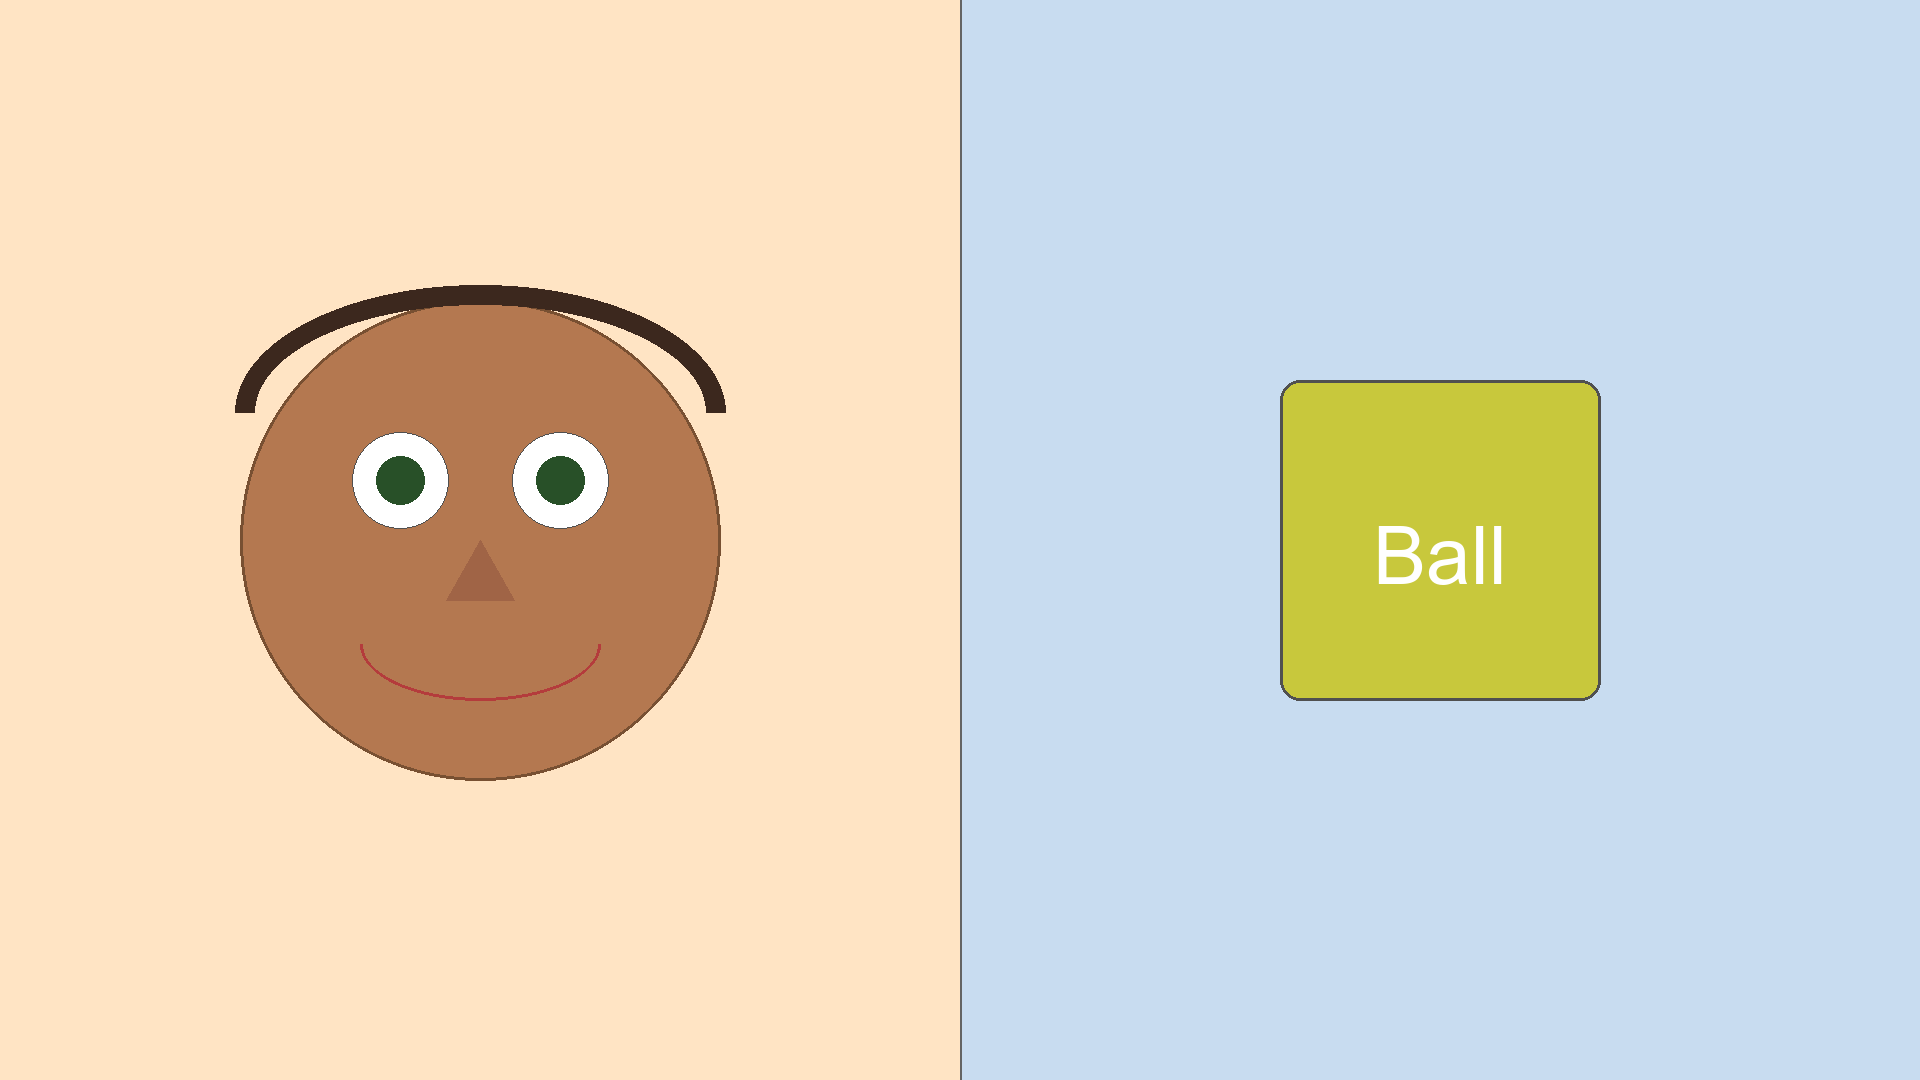
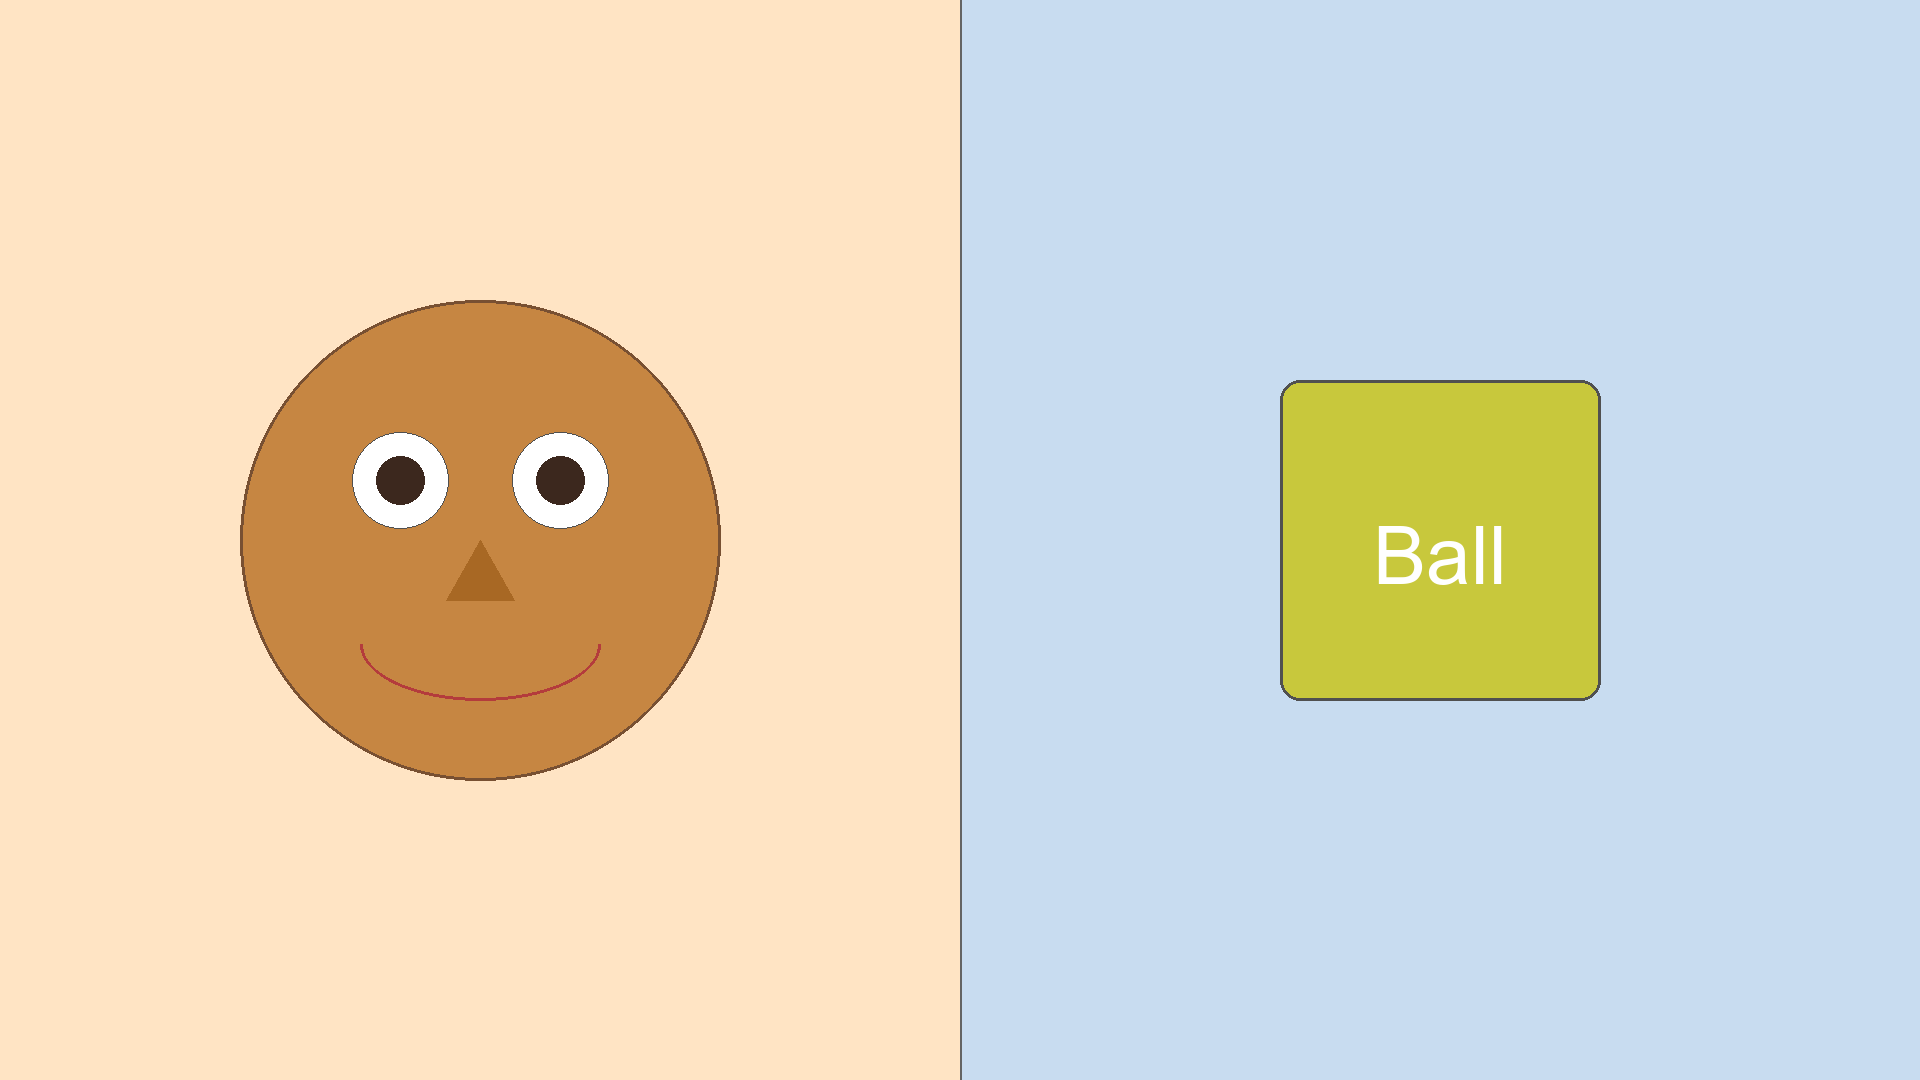
feat: make faces distinct and diverse in stimulus images

diff --git a/stimuli/generate_stimuli.py b/stimuli/generate_stimuli.py
@@ -33,9 +33,20 @@ STIMULI = [
 # Colors for the illustrations
 FACE_BG = (255, 228, 196)      # Warm peach
 OBJECT_BG = (200, 220, 240)    # Cool blue-gray
-FACE_COLOR = (180, 120, 80)    # Skin tone
-HAIR_COLOR = (60, 40, 30)      # Dark brown
-EYE_COLOR = (40, 80, 40)       # Dark green
+
+FACE_STYLES = [
+    # skin, hair, eyes, accessory
+    ((255, 206, 180), (60, 40, 30),  (40, 80, 40),   None),        # 1: Light skin, brown hair, green eyes
+    ((141, 85,  36),  (20, 20, 20),  (40, 30, 20),   None),        # 2: Dark skin, black hair, dark eyes
+    ((241, 194, 125), (220, 180, 50),(80, 120, 180), "glasses"),   # 3: Medium skin, blonde hair, blue eyes + glasses
+    ((255, 224, 189), (180, 60, 40), (80, 160, 80),  None),        # 4: Light skin, red hair, light green eyes
+    ((198, 134, 66),  None,          (60, 40, 30),   None),        # 5: Darker skin, bald, brown eyes
+    ((224, 172, 105), (100, 60, 40), (100, 80, 60),  None),        # 6: Medium skin, light brown hair, hazel eyes
+    ((255, 218, 185), (40, 40, 40),  (40, 40, 40),   None),        # 7: Light skin, black hair, black eyes
+    ((100, 50,  20),  (30, 30, 30),  (20, 20, 20),   None),        # 8: Very dark skin, black hair, black eyes
+    ((255, 220, 177), (180, 180, 180),(60, 100, 140), "glasses"),  # 9: Light skin, gray hair, blue eyes + glasses
+    ((230, 185, 120), (80, 40, 120), (120, 60, 120), None),        # 10: Medium skin, purple hair, purple eyes (fun!)
+]
 OBJECT_COLORS = [
     (180, 80,  80),   # House – red
     (80,  80,  180),  # Car – blue
@@ -50,15 +61,23 @@ OBJECT_COLORS = [
 ]
 
 
-def draw_face(draw, cx, cy, size):
-    """Draw a simple illustrated face."""
+def draw_face(draw, cx, cy, size, index=0):
+    """Draw a simple illustrated face with unique styles."""
     r = size // 2
+    style = FACE_STYLES[index % len(FACE_STYLES)]
+    skin_col, hair_col, eye_col, acc = style
 
     # Head
-    draw.ellipse([cx - r, cy - r, cx + r, cy + r], fill=FACE_COLOR, outline=(120, 80, 50), width=3)
+    draw.ellipse([cx - r, cy - r, cx + r, cy + r], fill=skin_col, outline=(120, 80, 50), width=3)
 
     # Hair
-    draw.arc([cx - r - 5, cy - r - 15, cx + r + 5, cy], 180, 0, fill=HAIR_COLOR, width=20)
+    if hair_col:
+        # Alternate hair styles slightly based on index
+        if index % 2 == 0:
+            draw.arc([cx - r - 5, cy - r - 15, cx + r + 5, cy], 180, 0, fill=hair_col, width=20)
+        else:
+            # Long hair
+            draw.arc([cx - r - 10, cy - r - 10, cx + r + 10, cy + r], 150, 30, fill=hair_col, width=25)
 
     # Eyes
     er = size // 10
@@ -67,16 +86,25 @@ def draw_face(draw, cx, cy, size):
     draw.ellipse([cx + r // 3 - er, ey - er, cx + r // 3 + er, ey + er], fill="white", outline=(80, 80, 80))
     # Pupils
     pr = er // 2
-    draw.ellipse([cx - r // 3 - pr, ey - pr, cx - r // 3 + pr, ey + pr], fill=EYE_COLOR)
-    draw.ellipse([cx + r // 3 - pr, ey - pr, cx + r // 3 + pr, ey + pr], fill=EYE_COLOR)
+    draw.ellipse([cx - r // 3 - pr, ey - pr, cx - r // 3 + pr, ey + pr], fill=eye_col)
+    draw.ellipse([cx + r // 3 - pr, ey - pr, cx + r // 3 + pr, ey + pr], fill=eye_col)
 
     # Nose
     draw.polygon([(cx, cy), (cx - size // 14, cy + size // 8), (cx + size // 14, cy + size // 8)],
-                 fill=(160, 100, 70))
+                 fill=(skin_col[0]-30, skin_col[1]-30, skin_col[2]-30))
 
     # Mouth (smile)
     mw = size // 4
     draw.arc([cx - mw, cy + size // 10, cx + mw, cy + size // 3], 0, 180, fill=(180, 60, 60), width=3)
+
+    # Accessories
+    if acc == "glasses":
+        # Draw glasses frames
+        gr = er + 5
+        draw.ellipse([cx - r // 3 - gr, ey - gr, cx - r // 3 + gr, ey + gr], outline=(20, 20, 20), width=4)
+        draw.ellipse([cx + r // 3 - gr, ey - gr, cx + r // 3 + gr, ey + gr], outline=(20, 20, 20), width=4)
+        # Bridge
+        draw.line([(cx - r // 3 + gr, ey), (cx + r // 3 - gr, ey)], fill=(20, 20, 20), width=4)
 
 
 def draw_house(draw, cx, cy, size):
@@ -160,7 +188,7 @@ def generate_all():
 
         # Draw face
         face_size = min(half_w, H) // 2
-        draw_face(draw, face_cx, face_cy, face_size)
+        draw_face(draw, face_cx, face_cy, face_size, index=i)
 
         # Draw object
         obj_size = min(half_w, H) // 3
